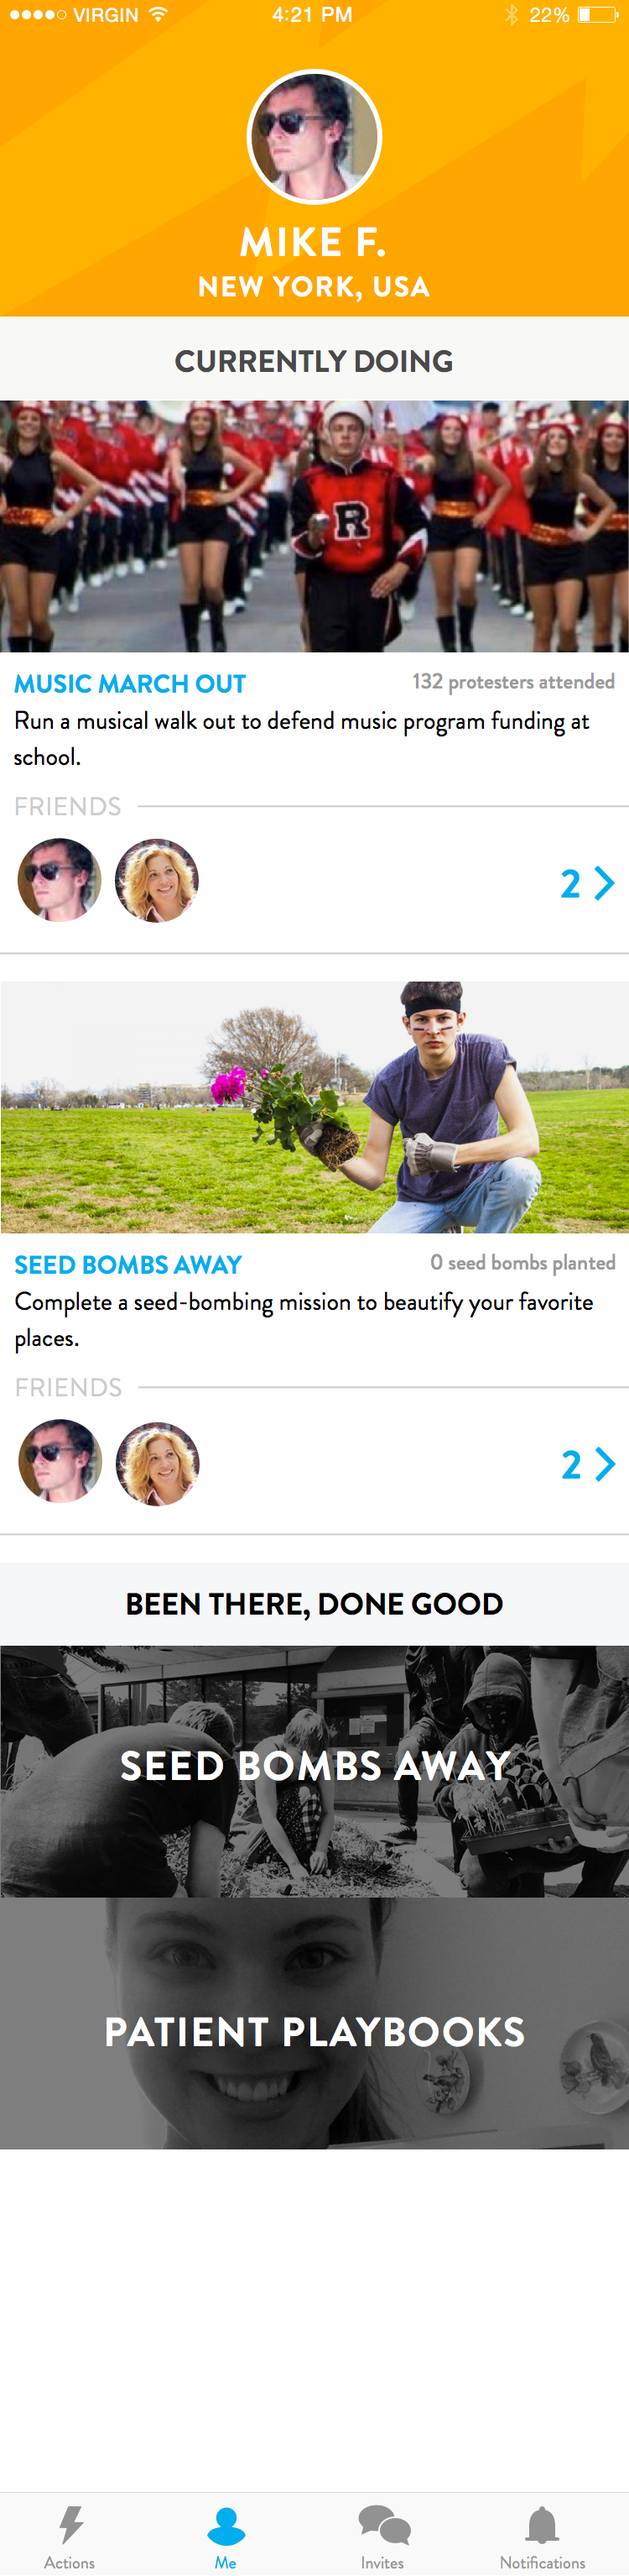
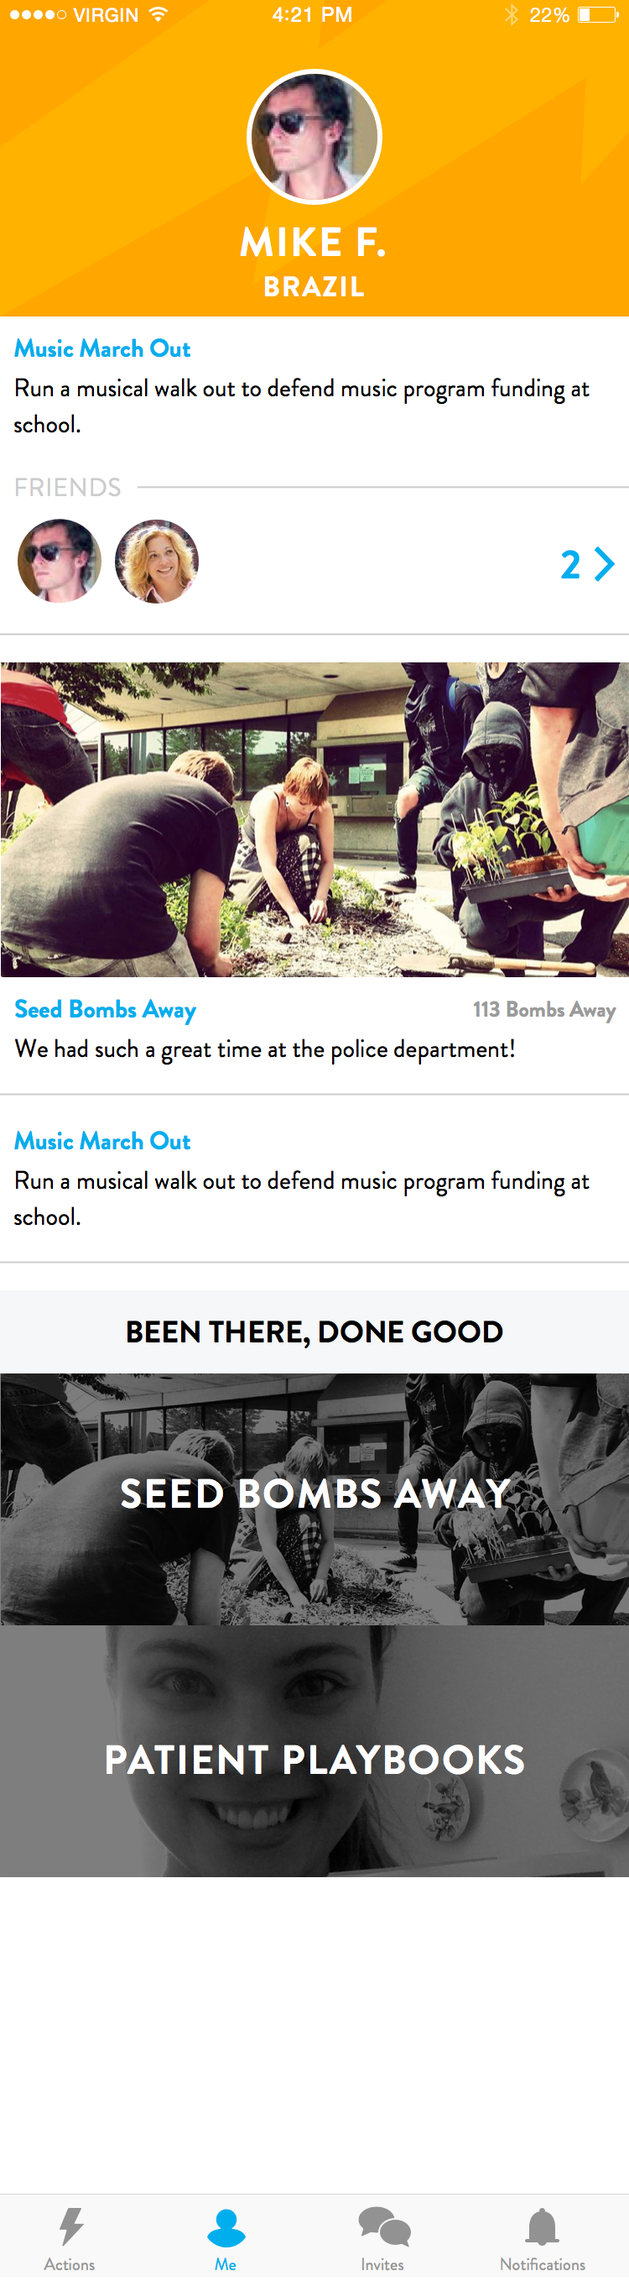
Updated Hub page designs

diff --git a/LetsDoThis/README.md b/LetsDoThis/README.md
@@ -31,6 +31,9 @@ Tapping on a Reportback Item should display the Reportback Detail view of the se
 
 On all screens, if a user avatar/name is tapped, the user's profile is displayed.
 
+Pre-reportback, a upload photo option is shown in place of photo.
+Post-reportback, tapping this photo will take you to the reportback detail screen.
+
 ### Reportbacks
 
 All of a User's non-`flagged` Reportback Items of current Campaigns are displayed.
